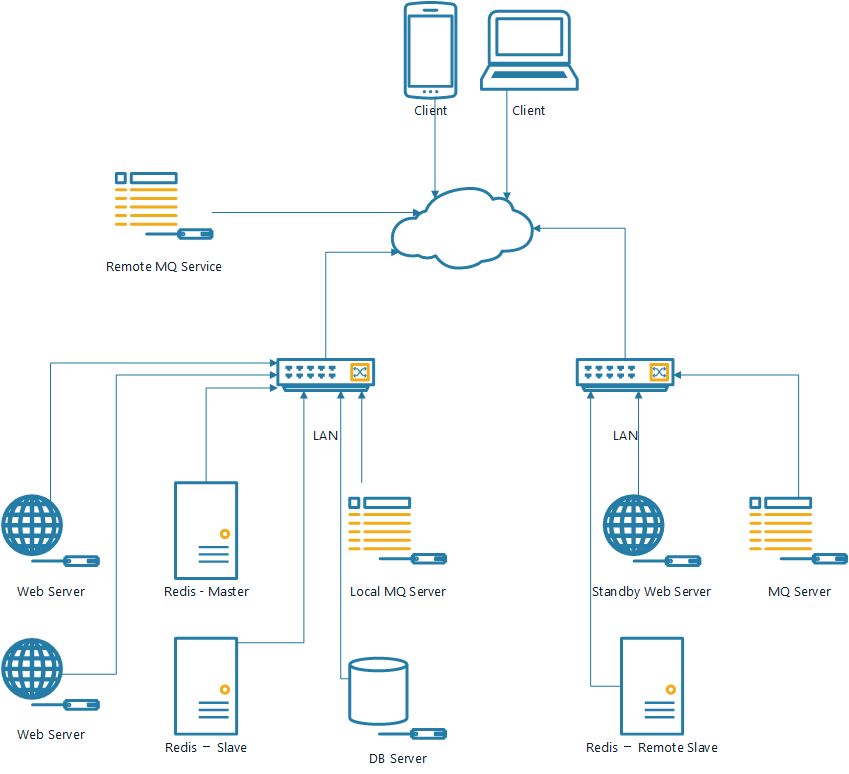
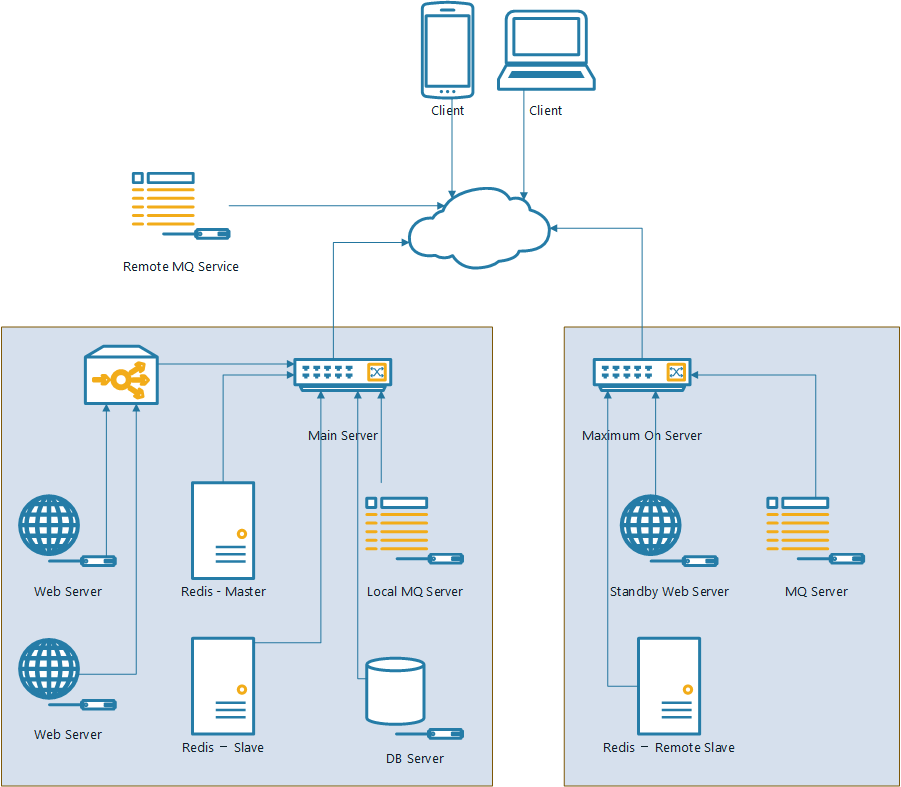
m

diff --git a/she-ji/chat-server.md b/she-ji/chat-server.md
@@ -35,14 +35,15 @@
 
 1. 在MaxOn功能基础上, 部署分为主服务器, 以及备用服务器, 异地跨机房部署
 2. 主服务器上的各个主机在一个局域网内
-  - 多套Web Server做Load-balance, 对外使用不同的IP, 可以在Load-balance控制器中控制流量到哪个平台
+  - 多套Web Server做Load-balance, 内部做NLB, 对外公开一个Cluster IP
   - Redis Server在本地做master-slave部署
     - 当Master宕掉以后系统可以自动切换到使用Slave
   - 本地有一个MQ Server可以做消息队列管理
   - 本地有一个数据库服务存储数据
 3. 副服务器上部署一套程序
   - 部署一套Web应用
-  - Redis服务从主服务器的Redis - Salve同步数据
+  - Redis服务从主服务器的Redis - Master同步数据
+    - 配置salve-priority 为0, 这样在master宕机以后他不会被选为master
   - 本地的MQ Server作为副服务器的消息队列管理
 4. 远程有一个MQ Service, 可以在本地消息服务失效时使用(MaxOn 主副使用同一个远程的MQ Server)
 
@@ -52,14 +53,12 @@
   ![chatserver](chatserver-arch.png)
 
 ### Chat Server 
-Chat Server应用程序分5个模块: API, Process, EventCenter, DataAccess
+Chat Server应用程序分3个模块: API, Process, DataAccess
 1. API
   - 提供Visitor, Agent, Chat的接口, 做序列化反序列化, 聚合处理结果
 2. Process
   - 处理Visitor, Agent, Chat的请求逻辑
-3. EventCenter
-  - 提供注册/分发ChatServer中的事件, 使得Bot/Translation的操作可以进入ChatServer中的事件流中
-4. DataAccess
+3. DataAccess
   - 数据访问层, 对上公开数据的读写操作, 在其之下有可能是访问数据库/内存/StateService/MQ等
     - Caching 
       - 提供缓存数据的访问, 包括配置信息, Visitor, Chat等内容
@@ -72,12 +71,11 @@ Chat Server应用程序分5个模块: API, Process, EventCenter, DataAccess
   - salesforce相关功能的一些服务, 由客户端调用
 2. Translation Service
   - 聊天自动翻译的功能, 响应ChatServer中的事件调用第三方API, 返回以后更新聊天
-2. Bot Chat Adapter
+3. Bot Chat Adapter
   - Chat中关于Bot的功能, 监听ChatServer中的一些事件, 响应事件以后调用bot api, 返回结果插入到聊天消息中
 
-#### MQ Proxy
 
-消息队列的代理服务, 可以将消息插入到本地的消息队列服务器中, 在本地消息队列不可用时插入到远程消息队列服务器中
+#### MQ
 
 1. Message compensation
   - 消息的补偿服务, 主要是拉取远程的消息队列服务器, 插入到本地的消息队列中
@@ -120,6 +118,9 @@ Chat Server应用程序分5个模块: API, Process, EventCenter, DataAccess
 4. 在副服务器切换为active的时候, 停止缓存服务从主服务器的缓存中同步, 避免老数据同步过来
 5. 服务器切换过程中, 客户端都需要跟Server进行一次数据同步, 以保证客户端与服务器的状态一致
 6. 在One MaxOn的Server上, 副服务器需要对应多个缓存服务
+  - 每一个平台在MaximumOnServer上有一个缓存服务, 访问时根据站点找到平台然后对应到具体的缓存服务上
+
+  ![one-maximum-on-redis-topology](one-maximum-on-redis-topology.png)
 
 ## 应用发布升级
 
@@ -131,11 +132,17 @@ Chat Server应用程序分5个模块: API, Process, EventCenter, DataAccess
 
 2. Load-balance切换
   - 将要升级的Server在Load-balance控制器中将流量移掉
+    - ?? 在Windows NLB 上测试在Loadbalance下请求的路由????
   - 升级这个Server, 待测试通过以后, 将流量导入到升级以后的Server中
   - 待确认升级的Server没有问题以后, 再通过Load-balance将另外的Server再一个一个升级
 
 3. MaximumOn切换
-  - 采用maximumOn切换到副服务器发布
+  - 将服务器切换到MaximumOnServer
+    - 将主服务器切为不可用, 当前使用副服务器
+    - 停止副服务器Redis Server 从主服务器的 Redis(master) Server上同步
+    - 将副服务器切为可用
+    - 在副服务器上同步聊天数据
+  - 待切换成功以后, 可以将主服务器做各种升级, 包括程序， 
   - 主服务器升级以后, 将服务器切换回主服务器
 
 
@@ -150,15 +157,15 @@ Chat Server应用程序分5个模块: API, Process, EventCenter, DataAccess
   - 回滚: 可以直接使用旧的dll回归
 
 3. Web应用发布, Redis状态有改动, 新/老数据可以兼容新程序, 但是新的数据不能兼容老程序
-  - 可以采用Loadbalance发布, 或者MaximumOn切换发布
+  - 采用MaximumOn切换发布
   - 回滚：因为Redis数据无法回滚, 因此在这种情况下回滚只能通过MaximumOn切换以后再回退程序
 
 4. 整个发布, Redis数据不兼容, 即新的程序无法直接访问老的Redis数据
-  - 采用MaximumOn发布
+  - 采用MaximumOn发布 
     - 发布过程中需要让副服务器始终跑旧程序, 需要保证切换过程可以做到从新切换到老的
   - 回滚: 采用MaximumOn回滚
 
-5. Web应用发布, 数据库升级 
+5. 数据库升级 
   - 数据库的升级不影响ChatServer发布, 只有程序是否对Redis的兼容性改动才会影响发布方式，但是需要按照一定的流程发布
     - 停止Redis Sync, Portal, Persistence等操作数据库的服务
     - 升级数据库
@@ -175,8 +182,8 @@ Chat Server应用程序分5个模块: API, Process, EventCenter, DataAccess
   - 在Loadbalance中将流量切回来
 
 2. Redis服务维护
-  - Master 维护, 需要将Redis切换到Slave, 停掉Redis-Master那台服务, 做维护, 再起来, 配置为从原来的Slave同步, 如果需要将Redis切回来则可以再讲Master切回来
-  - Slave 维护, 将MaximumOn中的Redis切换到从Master同步, 然后直接维护Slave服务
+  - Master 维护, 需要将Redis切换到Slave, 停掉Redis-Master那台服务, 做维护, 再起来, 配置为从原来的Slave同步, 如果需要将Redis切回来则可以再将Master切回来
+  - Slave 维护, 直接停机维护即可
 
 3. 数据库服务维护
   - 需要停止所有跟数据库相关的应用以后再进行维护
@@ -186,18 +193,3 @@ Chat Server应用程序分5个模块: API, Process, EventCenter, DataAccess
 
 5. 整个平台迁移
   - 需要切换到MaximumOn以后再做平台迁移事宜
-
-### 程序对Redis数据变更的兼容性支持
-
-修改Redis数据对象, 对象采用hash类型,  新程序对对象做如下变更
-  1.	增加对象 – 可以同时兼容新老程序, 只需要修改用到这个字段的模块
-  2.	对象增加字段 – 可以同时兼容新老程序,  只需要修改用到这个字段的模块
-    - 新程序模块读取老程序模块保存的对象, 在反序列化时为新字段添加默认值
-    - 老程序模块读取新程序模块保存的对象, 反序列化的时候会忽略新添加的字段
-    - 老程序模块修改新程序模块保存的对象, 只会修改自己定义的那些字段, 不会修改添加的字段
-    - 新程序模块修改老程序模块保存的对象, 完整保存新的对象
-  3.	修改基本数据类型的字段, 因为实际存储都是以string来存储, 因为在类型转化没有问题的前提下可以完全兼容新老版本, 需要修改用到这个字段的模块
-  4.	修改对象类型的字段(增加属性), 因为针对这种类型是通过json存储, 应此需要将使用到这个对象的所有模块同步修改
-  - 新程序访问老程序的数据, 在反序列化时添加默认值
-  5.	删除对象的字段, 因为删除上一个版本在使用的字段可能导致程序回滚失败, 因此只能删除已经确定不用的, 在这种情况下也可以同时支持新老程序
-
